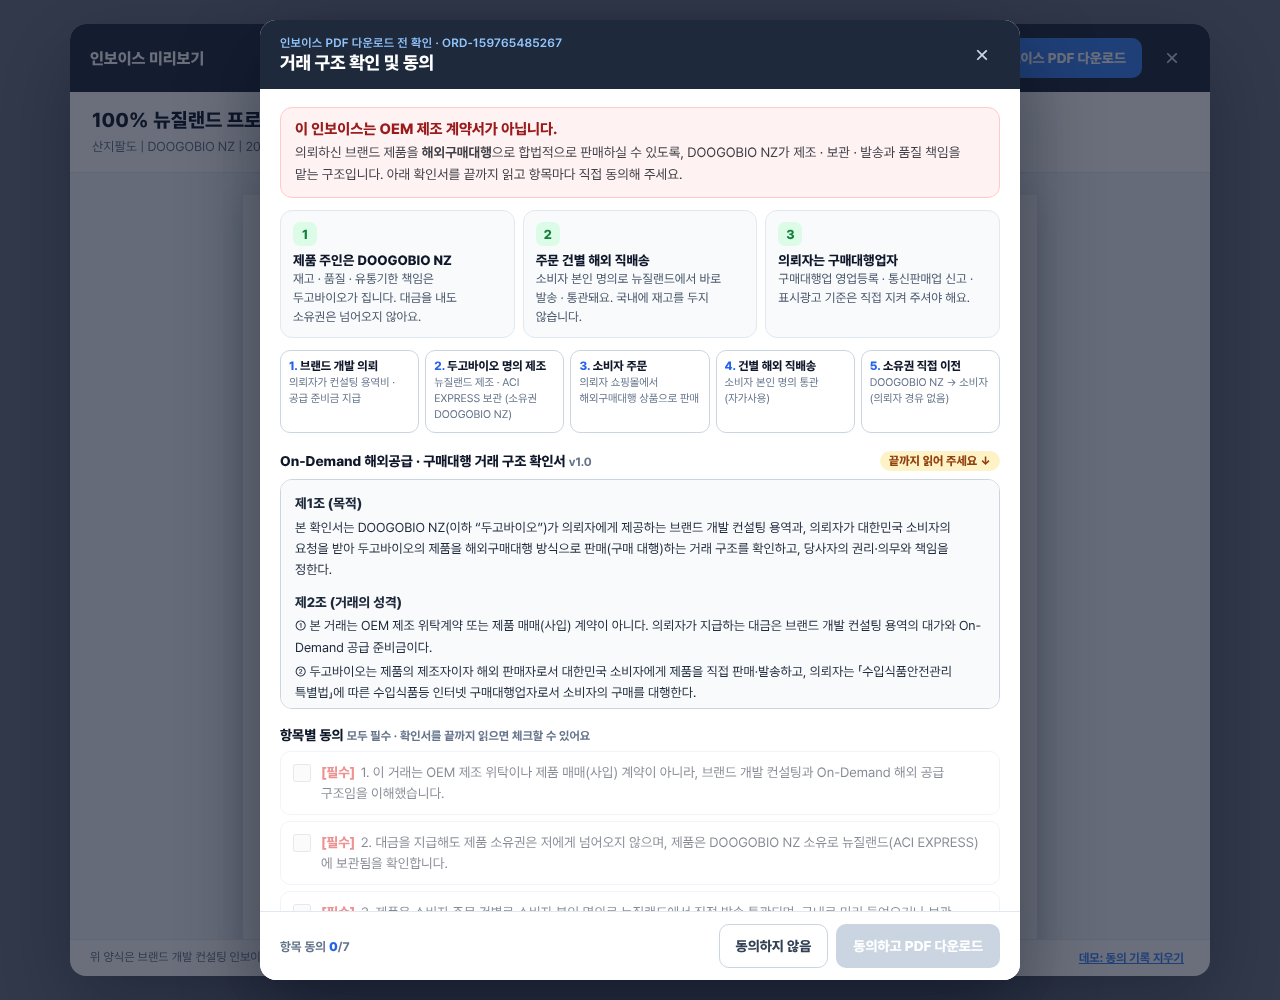
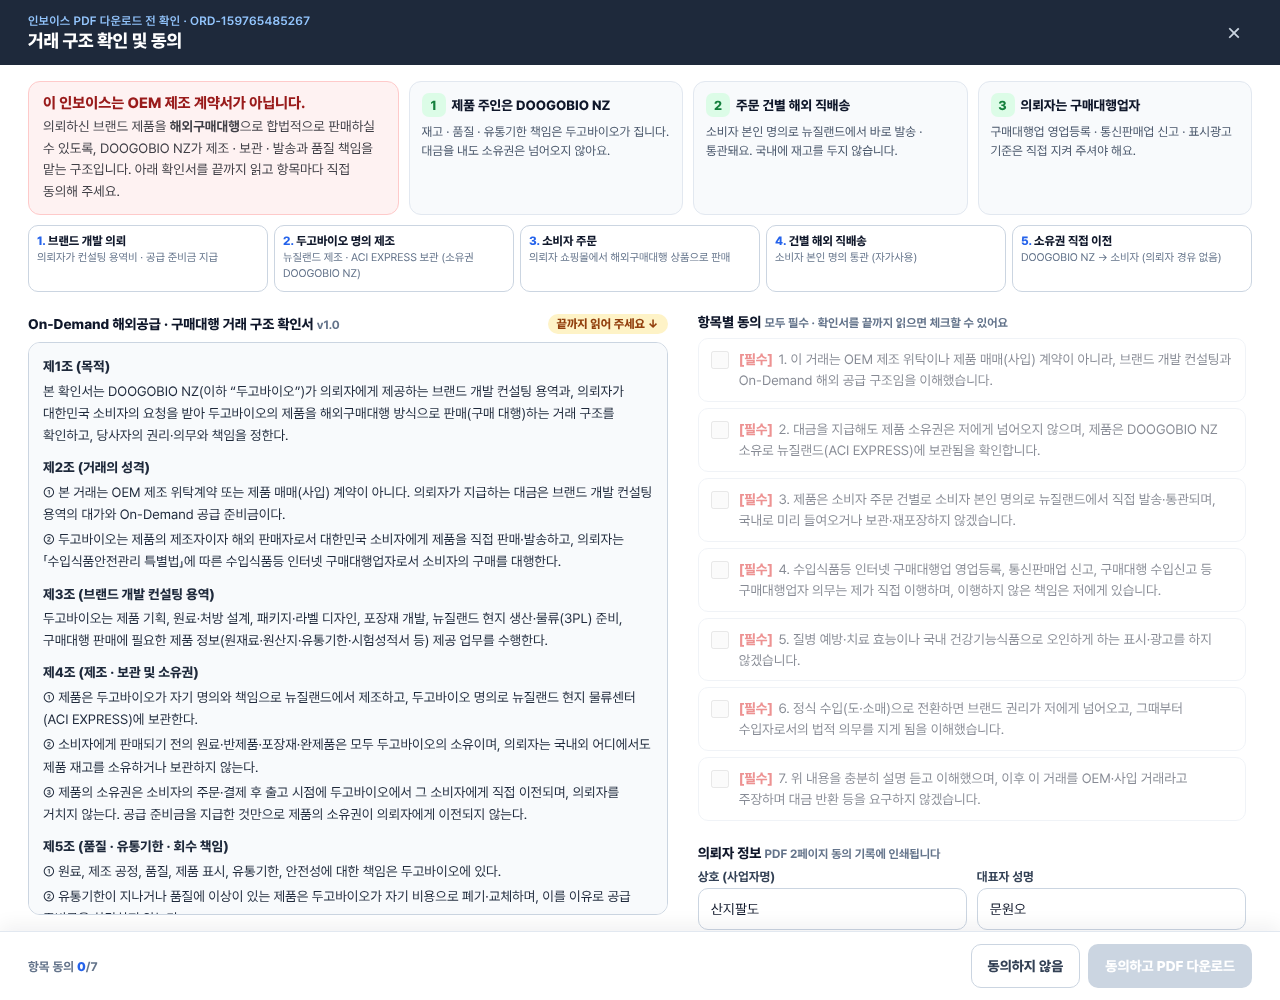
두고커넥트 동의 팝업을 전체 화면으로
- 팝업이 화면 전체를 쓰도록 변경 (가운데 760px 창 → 전체 화면)
- 넓은 화면: 위쪽 요약 한 줄 + 왼쪽 확인서 전문 / 오른쪽 동의·입력칸을 나란히, 각각 따로 스크롤
- 태블릿·휴대폰: 한 줄 배치, 확인서 칸 높이를 화면에 맞춤
- 휴대폰에서 팝업이 중간부터 보이던 문제 수정 (처음 포커스 시 스크롤 안 함)

Claude-Session: https://claude.ai/code/session_018qDJBD5PfTWFzt1A5EjwPR

diff --git a/doogo-connect/invoice-consent/consent.js b/doogo-connect/invoice-consent/consent.js
@@ -103,17 +103,20 @@
 
   /* ---------- 스타일 ---------- */
   var CSS = [
-    '.dgc-overlay{position:fixed;inset:0;z-index:2147483000;background:rgba(15,23,42,.62);display:flex;align-items:center;justify-content:center;padding:20px;font-family:"Pretendard Variable",Pretendard,-apple-system,BlinkMacSystemFont,"Apple SD Gothic Neo","Noto Sans KR","Malgun Gothic",sans-serif;color:#0f172a;word-break:keep-all;overflow-wrap:anywhere;animation:dgc-fade .16s ease-out}',
+    '.dgc-overlay{position:fixed;inset:0;z-index:2147483000;background:rgba(15,23,42,.62);display:flex;align-items:stretch;justify-content:stretch;padding:0;font-family:"Pretendard Variable",Pretendard,-apple-system,BlinkMacSystemFont,"Apple SD Gothic Neo","Noto Sans KR","Malgun Gothic",sans-serif;color:#0f172a;word-break:keep-all;overflow-wrap:anywhere;animation:dgc-fade .16s ease-out}',
     '.dgc-overlay *{box-sizing:border-box}',
     '@keyframes dgc-fade{from{opacity:0}to{opacity:1}}',
     '@keyframes dgc-up{from{transform:translateY(12px);opacity:.4}to{transform:none;opacity:1}}',
-    '.dgc-modal{width:min(760px,100%);max-height:calc(100vh - 40px);display:flex;flex-direction:column;background:#fff;border-radius:16px;box-shadow:0 30px 80px rgba(2,6,23,.45);overflow:hidden;animation:dgc-up .2s ease-out}',
-    '.dgc-head{display:flex;align-items:center;justify-content:space-between;gap:12px;padding:16px 20px;background:#1e293b;color:#fff}',
+    /* 화면 전체를 쓰는 팝업 */
+    '.dgc-modal{width:100%;height:100vh;height:100dvh;display:flex;flex-direction:column;background:#fff;overflow:hidden;animation:dgc-up .2s ease-out}',
+    '.dgc-head{flex:none;padding:14px 28px;background:#1e293b;color:#fff}',
+    '.dgc-head-in,.dgc-foot-in,.dgc-wrap{width:100%;max-width:1360px;margin:0 auto}',
+    '.dgc-head-in{display:flex;align-items:center;justify-content:space-between;gap:12px}',
     '.dgc-eyebrow{margin:0;font-size:12px;font-weight:600;color:#93c5fd;letter-spacing:.02em}',
     '.dgc-head h2{margin:2px 0 0;font-size:18px;font-weight:800;letter-spacing:-.01em}',
     '.dgc-x{flex:none;width:36px;height:36px;border:0;border-radius:10px;background:transparent;color:#cbd5e1;font-size:24px;line-height:1;cursor:pointer}',
     '.dgc-x:hover{background:rgba(255,255,255,.1);color:#fff}',
-    '.dgc-body{padding:18px 20px 8px;overflow:auto;-webkit-overflow-scrolling:touch}',
+    '.dgc-body{flex:1;min-height:0;padding:18px 28px 8px;overflow:auto;-webkit-overflow-scrolling:touch;background:#fff}',
     '.dgc-alert{border:1px solid #fecaca;background:#fef2f2;border-radius:12px;padding:12px 14px}',
     '.dgc-alert strong{display:block;font-size:15px;font-weight:800;color:#991b1b}',
     '.dgc-alert p{margin:4px 0 0;font-size:13.5px;line-height:1.6;color:#3f3f46}',
@@ -131,7 +134,7 @@
     '.dgc-sec-title small{font-size:12px;font-weight:700;color:#64748b}',
     '.dgc-read{font-size:12px;font-weight:800;padding:3px 9px;border-radius:999px;background:#fef3c7;color:#92400e;white-space:nowrap}',
     '.dgc-read.is-done{background:#dcfce7;color:#166534}',
-    '.dgc-doc{height:230px;overflow:auto;border:1px solid #cbd5e1;border-radius:12px;padding:12px 14px;background:#f8fafc;font-size:13px;line-height:1.65;color:#1e293b;outline:none}',
+    '.dgc-doc{height:clamp(280px,48vh,560px);overflow:auto;border:1px solid #cbd5e1;border-radius:12px;padding:12px 14px;background:#f8fafc;font-size:13px;line-height:1.65;color:#1e293b;outline:none}',
     '.dgc-doc:focus-visible{box-shadow:0 0 0 3px rgba(59,130,246,.35)}',
     '.dgc-doc h4{margin:10px 0 2px;font-size:13.5px;font-weight:800}',
     '.dgc-doc h4:first-child{margin-top:0}',
@@ -159,7 +162,8 @@
     '.dgc-phrase p b{color:#0f172a;background:#fff;border:1px solid #cbd5e1;border-radius:6px;padding:1px 6px;user-select:none;-webkit-user-select:none}',
     '.dgc-note{margin:12px 0 6px;font-size:12px;line-height:1.6;color:#64748b}',
     '.dgc-error{margin:8px 0 0;font-size:13px;font-weight:700;color:#b91c1c}',
-    '.dgc-foot{display:flex;align-items:center;gap:8px;padding:12px 20px;border-top:1px solid #e2e8f0;background:#fff}',
+    '.dgc-foot{flex:none;padding:12px 28px;border-top:1px solid #e2e8f0;background:#fff;box-shadow:0 -6px 18px rgba(15,23,42,.06)}',
+    '.dgc-foot-in{display:flex;align-items:center;gap:8px}',
     '.dgc-progress{margin-right:auto;font-size:12.5px;font-weight:700;color:#64748b}',
     '.dgc-progress b{color:#2563eb}',
     '.dgc-btn{height:44px;border-radius:10px;padding:0 16px;font:inherit;font-size:14px;font-weight:800;cursor:pointer;border:1px solid transparent;white-space:nowrap}',
@@ -168,14 +172,27 @@
     '.dgc-btn-primary{background:#3b82f6;color:#fff}',
     '.dgc-btn-primary:hover{background:#2563eb}',
     '.dgc-btn-primary[disabled]{background:#cbd5e1;color:#fff;cursor:not-allowed}',
+    /* 넓은 화면: 위쪽 요약 한 줄 + 왼쪽 확인서 전문 / 오른쪽 동의·입력 (각각 따로 스크롤) */
+    '@media (min-width:1100px) and (min-height:700px){',
+    '.dgc-body{display:flex;flex-direction:column;overflow:hidden;padding:16px 28px 0}',
+    '.dgc-wrap{flex:1;min-height:0;display:flex;flex-direction:column}',
+    '.dgc-intro{flex:none;display:grid;grid-template-columns:1.35fr 1fr 1fr 1fr;gap:10px}',
+    '.dgc-intro .dgc-keys{display:contents}',
+    '.dgc-intro .dgc-flow{grid-column:1/-1;margin:0}',
+    '.dgc-intro .dgc-key b{display:inline;margin:0 0 0 6px;vertical-align:middle}',
+    '.dgc-intro .dgc-key span{margin-top:6px}',
+    '.dgc-main{flex:1;min-height:0;display:grid;grid-template-columns:minmax(0,1.15fr) minmax(0,1fr);gap:28px;margin-top:4px}',
+    '.dgc-col-doc{display:flex;flex-direction:column;min-height:0;padding-bottom:16px}',
+    '.dgc-col-doc .dgc-doc{flex:1;height:auto;min-height:0;font-size:13.5px}',
+    '.dgc-col-form{min-height:0;overflow:auto;padding:0 6px 16px 2px}',
+    '}',
     '@media (max-width:640px){',
-    '.dgc-overlay{padding:0;align-items:stretch}',
-    '.dgc-modal{max-height:none;height:100%;border-radius:0}',
+    '.dgc-head,.dgc-body,.dgc-foot{padding-left:16px;padding-right:16px}',
     '.dgc-keys{grid-template-columns:1fr}',
     '.dgc-flow{grid-template-columns:1fr}',
     '.dgc-grid{grid-template-columns:1fr}',
-    '.dgc-doc{height:260px}',
-    '.dgc-foot{flex-wrap:wrap}',
+    '.dgc-doc{height:clamp(240px,45vh,420px)}',
+    '.dgc-foot-in{flex-wrap:wrap}',
     '.dgc-progress{width:100%}',
     '.dgc-btn{flex:1}',
     '}'
@@ -211,10 +228,11 @@
 
     return '' +
       '<div class="dgc-modal" role="dialog" aria-modal="true" aria-labelledby="dgc-title">' +
-        '<header class="dgc-head"><div><p class="dgc-eyebrow">인보이스 PDF 다운로드 전 확인' + (opts.orderNo ? ' · ' + esc(opts.orderNo) : '') + '</p>' +
+        '<header class="dgc-head"><div class="dgc-head-in"><div><p class="dgc-eyebrow">인보이스 PDF 다운로드 전 확인' + (opts.orderNo ? ' · ' + esc(opts.orderNo) : '') + '</p>' +
           '<h2 id="dgc-title">거래 구조 확인 및 동의</h2></div>' +
-          '<button type="button" class="dgc-x" data-act="cancel" aria-label="닫기">×</button></header>' +
-        '<div class="dgc-body">' +
+          '<button type="button" class="dgc-x" data-act="cancel" aria-label="닫기">×</button></div></header>' +
+        '<div class="dgc-body"><div class="dgc-wrap">' +
+          '<div class="dgc-intro">' +
           '<div class="dgc-alert"><strong>이 인보이스는 OEM 제조 계약서가 아닙니다.</strong>' +
             '<p>의뢰하신 브랜드 제품을 <b>해외구매대행</b>으로 합법적으로 판매하실 수 있도록, ' + f('{supplierName}') +
             '가 제조 · 보관 · 발송과 품질 책임을 맡는 구조입니다. 아래 확인서를 끝까지 읽고 항목마다 직접 동의해 주세요.</p></div>' +
@@ -224,11 +242,16 @@
             '<div class="dgc-key"><i>3</i><b>의뢰자는 구매대행업자</b><span>구매대행업 영업등록 · 통신판매업 신고 · 표시광고 기준은 직접 지켜 주셔야 해요.</span></div>' +
           '</div>' +
           '<ol class="dgc-flow">' + flow + '</ol>' +
+          '</div>' +
 
+          '<div class="dgc-main">' +
+          '<section class="dgc-col-doc">' +
           '<div class="dgc-sec-title"><span>' + esc(A.title) + ' <small>v' + esc(A.version) + '</small></span><span class="dgc-read" data-read>끝까지 읽어 주세요 ↓</span></div>' +
           '<div class="dgc-doc" tabindex="0" data-doc aria-label="거래 구조 확인서 전문">' + clauses +
             '<p class="dgc-doc-end">— 확인서 끝 · 이 내용은 내려받는 인보이스 PDF 2페이지에 그대로 인쇄됩니다 —</p></div>' +
+          '</section>' +
 
+          '<section class="dgc-col-form">' +
           '<div class="dgc-sec-title"><span>항목별 동의 <small>모두 필수 · 확인서를 끝까지 읽으면 체크할 수 있어요</small></span></div>' +
           '<fieldset class="dgc-checks" data-checks disabled><legend style="position:absolute;width:1px;height:1px;overflow:hidden;clip:rect(0 0 0 0)">항목별 동의</legend>' + checks + '</fieldset>' +
 
@@ -247,10 +270,12 @@
           '<p class="dgc-note">「동의하고 PDF 다운로드」를 누르면 동의 일시 · 계정 · 입력하신 정보 · 문서 버전과 지문(SHA-256)이 기록되고, 내려받는 인보이스 PDF 2페이지에 함께 인쇄됩니다. ' +
             '동의하지 않으시면 인보이스를 내려받을 수 없고 생산 준비도 진행되지 않습니다.</p>' +
           '<p class="dgc-error" data-error hidden></p>' +
-        '</div>' +
-        '<footer class="dgc-foot"><span class="dgc-progress" data-progress>항목 동의 <b>0</b>/' + A.checks.length + '</span>' +
+          '</section>' +
+          '</div>' +
+        '</div></div>' +
+        '<footer class="dgc-foot"><div class="dgc-foot-in"><span class="dgc-progress" data-progress>항목 동의 <b>0</b>/' + A.checks.length + '</span>' +
           '<button type="button" class="dgc-btn dgc-btn-ghost" data-act="cancel">동의하지 않음</button>' +
-          '<button type="button" class="dgc-btn dgc-btn-primary" data-act="agree" disabled>' + esc(opts.agreeLabel || '동의하고 PDF 다운로드') + '</button></footer>' +
+          '<button type="button" class="dgc-btn dgc-btn-primary" data-act="agree" disabled>' + esc(opts.agreeLabel || '동의하고 PDF 다운로드') + '</button></div></footer>' +
       '</div>';
   }
 
@@ -409,7 +434,7 @@
         });
       });
 
-      setTimeout(function () { try { docEl.focus(); } catch (e) { /* 무시 */ } }, 30);
+      setTimeout(function () { try { docEl.focus({ preventScroll: true }); } catch (e) { /* 무시 */ } }, 30); // 맨 위 안내부터 보이게
     });
   }
 

diff --git a/doogo-connect/invoice-consent/README.md b/doogo-connect/invoice-consent/README.md
@@ -36,6 +36,8 @@ doogoconnect.com 의뢰자 센터의 「견적서 미리보기 → 견적서 PDF
 
 ### 다운로드 전 팝업 — 나중에 "몰랐다"를 막는 장치
 
+화면 전체를 쓰는 팝업입니다. 넓은 화면(가로 1100px·세로 700px 이상)에서는 왼쪽에 확인서 전문, 오른쪽에 동의 항목·입력칸이 나란히 보이고 각각 따로 스크롤됩니다. 태블릿·휴대폰에서는 한 줄로 이어집니다. (`sample/consent-popup.png`, `sample/consent-popup-mobile.png`)
+
 1. 확인서 전문을 **끝까지 스크롤해야** 체크박스가 열립니다 (읽은 시각 기록).
 2. 동의 7개를 **하나씩 직접** 체크 — "전체 동의" 버튼은 일부러 없습니다.
 3. 상호 · 대표자 · 사업자등록번호 · 구매대행업 영업등록번호(또는 "판매 전 등록 약속") 입력.
